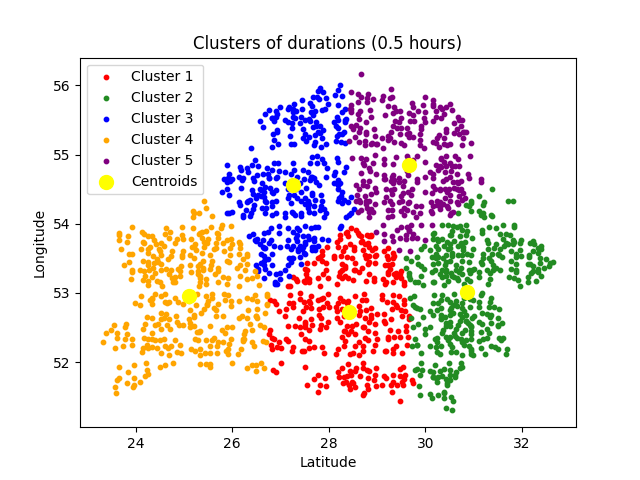
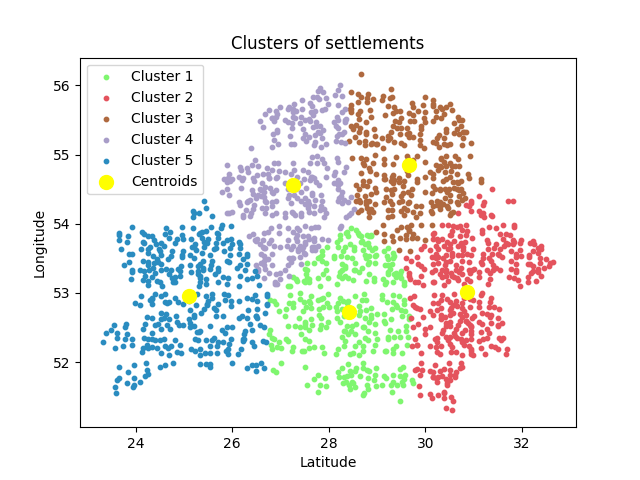
Added tables (k-means)

diff --git a/clustering/kmeans_clustering.py b/clustering/kmeans_clustering.py
@@ -23,19 +23,25 @@ class KMeansClustering:
         plt.show()
 
     def show_clusters(self, cluster_amount):
-        X = self.dataset.iloc[:, [1, 2]].values
+        coordinates = self.dataset.iloc[:, [1, 2]].values
+        populations = self.dataset.iloc[:, [3]].values
+        table_labels, table_text = [], []
         kmeans = KMeans(
             n_clusters=cluster_amount, init='k-means++', random_state=int()
         )
-        y_kmeans = kmeans.fit_predict(X)
+        y_kmeans = kmeans.fit_predict(coordinates)
         for index in range(cluster_amount):
+            boolean_list = y_kmeans == index
+            label = f'Cluster {index + 1}'
             color = '#' + ''.join(
                 [random.choice('0123456789ABCDEF') for _ in range(6)]
             )
             plt.scatter(
-                X[y_kmeans == index, 0], X[y_kmeans == index, 1],
-                s=10, c=color, label=f'Cluster {index + 1}'
+                coordinates[boolean_list, 0], coordinates[boolean_list, 1],
+                s=10, c=color, label=label
             )
+            table_labels.append(label)
+            table_text.append(sum(populations[boolean_list, 0]))
         plt.scatter(
             kmeans.cluster_centers_[:, 0], kmeans.cluster_centers_[:, 1],
             s=100, c='yellow', label='Centroids'
@@ -44,4 +50,15 @@ class KMeansClustering:
         plt.xlabel('Latitude')
         plt.ylabel('Longitude')
         plt.legend()
+        plt.show()
+        self.show_table(table_labels, [table_text])
+
+    @staticmethod
+    def show_table(labels, text, cellLoc='center', loc='center'):
+        fig, ax = plt.subplots()
+        fig.patch.set_visible(False)
+        ax.axis('off')
+        ax.axis('tight')
+        ax.table(cellText=text, colLabels=labels, cellLoc=cellLoc, loc=loc)
+        fig.tight_layout()
         plt.show()

diff --git a/database/models.py b/database/models.py
@@ -29,12 +29,12 @@ class Duration(Base):
     id = Column(Integer, primary_key=True, autoincrement=True,)
     settlement_1_id = Column(
         Integer,
-        ForeignKey('settlements.settlement_id', ondelete='CASCADE'),
+        ForeignKey('settlements.id', ondelete='CASCADE'),
         nullable=False
     )
     settlement_2_id = Column(
         Integer,
-        ForeignKey('settlements.settlement_id', ondelete='CASCADE'),
+        ForeignKey('settlements.id', ondelete='CASCADE'),
         nullable=False
     )
     duration = Column(Integer, nullable=False)

diff --git a/database/db_manager.py b/database/db_manager.py
@@ -1,6 +1,5 @@
 import csv
 import typing
-
 from sqlalchemy import create_engine
 from sqlalchemy.orm import sessionmaker
 from database.models import Settlement, Duration, Base
@@ -79,6 +78,7 @@ class DatabaseManager:
             Settlement.name,
             Settlement.latitude,
             Settlement.longitude,
+            Settlement.population
         ).join(
             Duration,
             Duration.settlement_1_id == Settlement.id or
